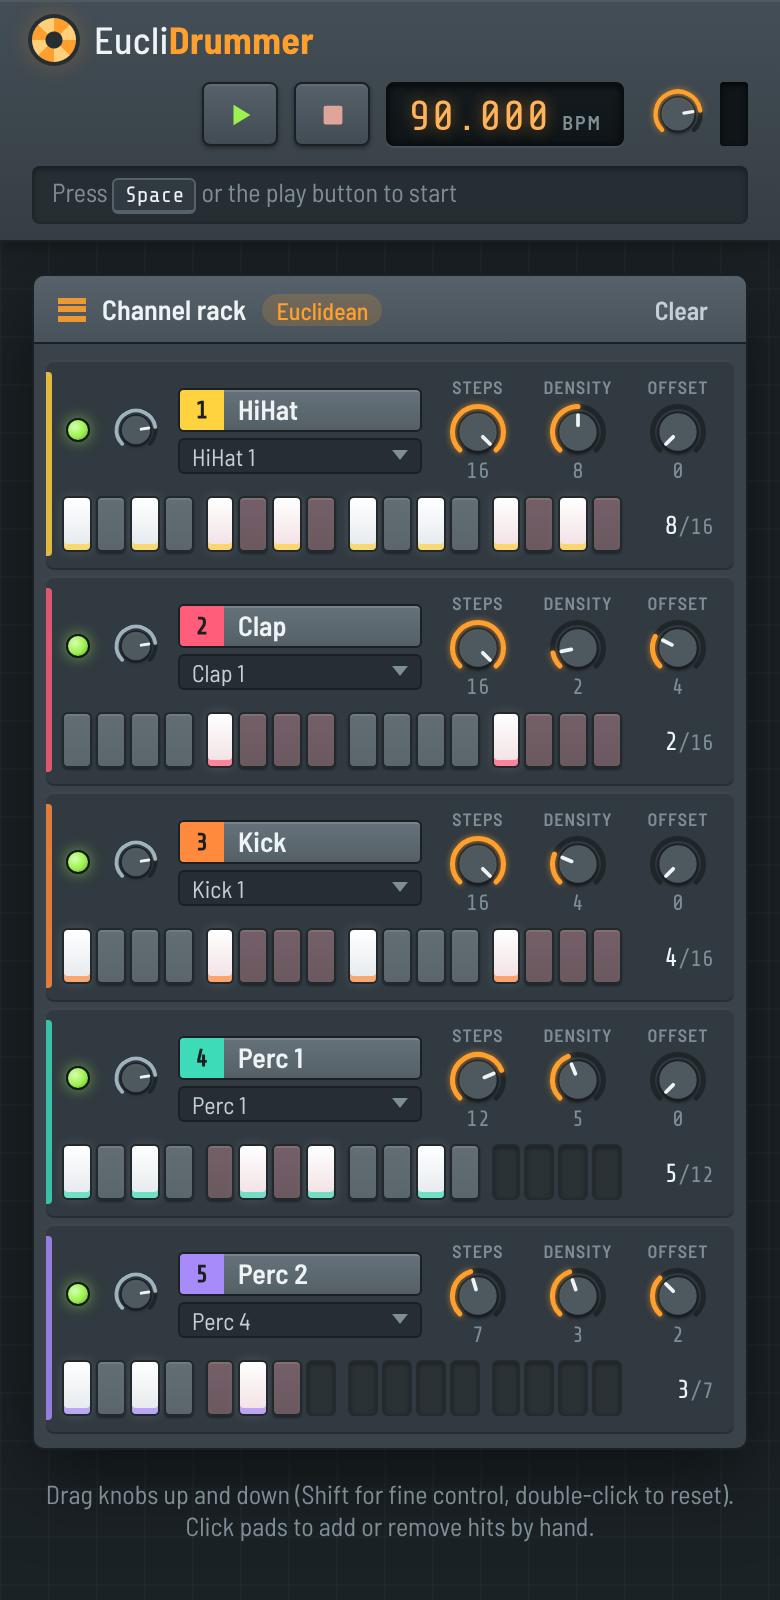
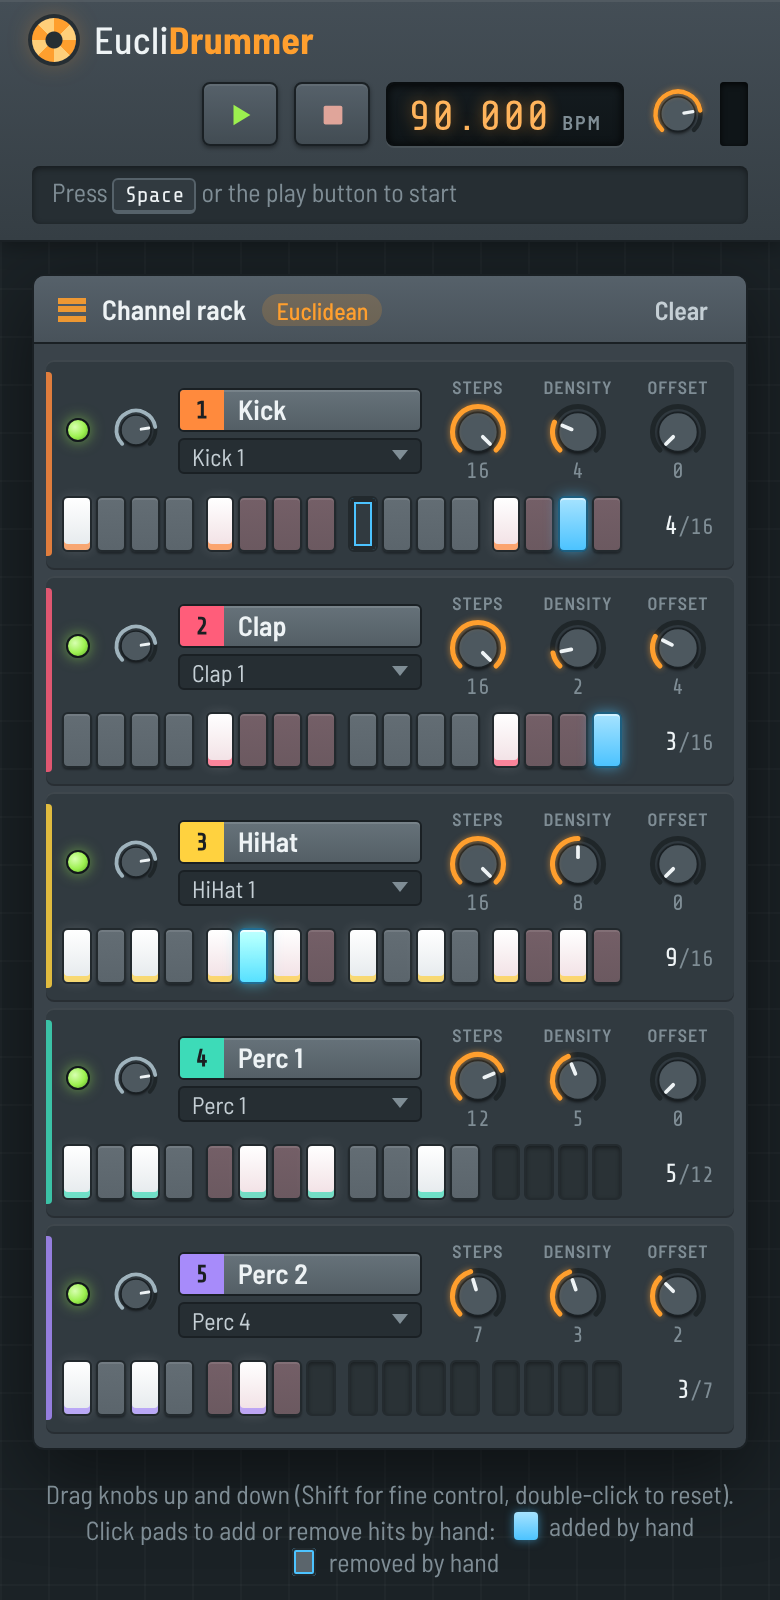
Colour hand-edited steps and reorder tracks
Pads toggled by hand now stand apart from the Euclidean pattern: an
added hit lights up blue instead of white, and a generated hit that was
removed gets a blue outline. A step counts as edited when it differs
from the pattern the track's knobs generate, so turning a knob clears
the markers along with the edits. A legend under the rack explains the
colours.

Tracks are now ordered Kick, Clap, HiHat, Perc 1, Perc 2.

Claude-Session: https://claude.ai/code/session_01Bp1XFt4pRRs2fHdF7PeK35

diff --git a/sketch.js b/sketch.js
@@ -16,16 +16,16 @@ const DEFAULT_VOLUME = 0.8;
 // a knob returns it to this value).
 const TRACKS = [
   {
-    phrase: 'hh', label: 'HiHat', files: ['hat', 'hh2', 'hh3'], options: ['HiHat 1', 'HiHat 2', 'HiHat 3'],
-    color: '#ffd23f', groove: { steps: 16, density: 8, offset: 0 }
+    phrase: 'bass', label: 'Kick', files: ['bass', 'bass2', 'bass3'], options: ['Kick 1', 'Kick 2', 'Kick 3'],
+    color: '#ff8a3d', groove: { steps: 16, density: 4, offset: 0 }
   },
   {
     phrase: 'clap', label: 'Clap', files: ['clap', 'clap2', 'clap3'], options: ['Clap 1', 'Clap 2', 'Clap 3'],
     color: '#ff5d7a', groove: { steps: 16, density: 2, offset: 4 }
   },
   {
-    phrase: 'bass', label: 'Kick', files: ['bass', 'bass2', 'bass3'], options: ['Kick 1', 'Kick 2', 'Kick 3'],
-    color: '#ff8a3d', groove: { steps: 16, density: 4, offset: 0 }
+    phrase: 'hh', label: 'HiHat', files: ['hat', 'hh2', 'hh3'], options: ['HiHat 1', 'HiHat 2', 'HiHat 3'],
+    color: '#ffd23f', groove: { steps: 16, density: 8, offset: 0 }
   },
   {
     phrase: 'p1', label: 'Perc 1', files: ['p1-1', 'p1-2', 'p1-3'], options: ['Perc 1', 'Perc 2', 'Perc 3'],
@@ -508,13 +508,19 @@ function toggleStep(track, step) {
 }
 
 function renderTrack(track) {
+  // Steps that differ from the generated Euclidean pattern were toggled by hand.
+  const generated = euclidPattern(track.steps, track.density, track.offset);
   track.pads.forEach((pad, i) => {
     const inRange = i < track.steps;
     const on = inRange && track.pattern[i] === 1;
+    const edited = inRange && track.pattern[i] !== generated[i];
     pad.disabled = !inRange;
     pad.classList.toggle('out', !inRange);
     pad.classList.toggle('on', on);
+    pad.classList.toggle('added', edited && on);
+    pad.classList.toggle('removed', edited && !on);
     pad.setAttribute('aria-pressed', String(on));
+    pad.setAttribute('aria-label', `${track.label} step ${i + 1}${edited ? ' (edited by hand)' : ''}`);
   });
   const hits = track.steps ? track.pattern.reduce((a, b) => a + b, 0) : 0;
   track.row.querySelector('.ratio b').textContent = hits;

diff --git a/style.css b/style.css
@@ -21,6 +21,8 @@
   --pad-alt: #6b5960;
   --pad-on: #e4e9ec;
   --pad-on-alt: #f1dfe3;
+  --manual: #4cc3ff;
+  --manual-glow: rgba(76, 195, 255, 0.55);
   --radius: 4px;
   --font: 'Barlow Semi Condensed', 'Arial Narrow', 'Segoe UI', system-ui, sans-serif;
   --mono: 'Share Tech Mono', ui-monospace, 'SFMono-Regular', Consolas, monospace;
@@ -573,6 +575,45 @@ kbd {
 .pad.on.now {
   background: var(--ch);
   box-shadow: 0 0 12px var(--ch);
+}
+
+/* Hits added by hand light up in their own colour; Euclidean hits removed by hand get an outline. */
+.pad.on.added,
+.pad.alt.on.added {
+  background: linear-gradient(#a6e3ff, var(--manual));
+  border-color: #1d5f80;
+  box-shadow: inset 0 1px 0 rgba(255, 255, 255, 0.5), 0 0 7px var(--manual-glow);
+}
+
+.pad.on.added.now {
+  background: #c9efff;
+  box-shadow: 0 0 14px var(--manual);
+}
+
+.pad.removed {
+  box-shadow: inset 0 0 0 2px #22292d, inset 0 0 0 3px var(--manual);
+  background-image: none;
+}
+
+.legend {
+  display: inline-flex;
+  align-items: center;
+  gap: 6px;
+  margin-left: 6px;
+  white-space: nowrap;
+}
+
+.legend-swatch {
+  width: 12px;
+  height: 14px;
+  border-radius: 2px;
+  background: linear-gradient(#a6e3ff, var(--manual));
+  box-shadow: 0 0 5px var(--manual-glow);
+}
+
+.legend-swatch.removed {
+  background: var(--pad);
+  box-shadow: inset 0 0 0 1px #22292d, inset 0 0 0 2px var(--manual);
 }
 
 .ratio {

diff --git a/index.html b/index.html
@@ -78,7 +78,9 @@
     </section>
 
     <p class="footnote">Drag knobs up and down (Shift for fine control, double-click to reset). Click pads to
-      add or remove hits by hand.</p>
+      add or remove hits by hand:
+      <span class="legend"><span class="legend-swatch"></span>added by hand</span>
+      <span class="legend"><span class="legend-swatch removed"></span>removed by hand</span></p>
   </main>
 
   <div class="loading" id="loading">Loading samples…</div>

diff --git a/README.md b/README.md
@@ -6,7 +6,7 @@ EucliDrummer is a browser drum machine built with [p5.js](https://p5js.org/) and
 
 ## Features
 
-- Five tracks: HiHat, Clap, Kick, Perc 1 and Perc 2.
+- Five tracks: Kick, Clap, HiHat, Perc 1 and Perc 2.
 - A dark, DAW-style interface inspired by FL Studio's channel rack, with rotary knobs, lit step pads, a running playhead and a tempo display.
 - Per-track Euclidean controls:
   - **Steps** sets the pattern length (0 to 16 steps).
@@ -38,7 +38,7 @@ Then open <http://localhost:8000> in your browser. In VS Code, the Live Server e
 1. Press **Space** or the green play button to start the loop. Space again stops it; the play button pauses. Browsers only allow audio after you interact with the page, and either of these counts.
 2. Turn a track's **Density** knob to add or remove hits. Each track starts with a groove loaded, and **Clear** in the rack's title bar empties every pattern.
 3. Turn **Steps** to make a track loop over fewer steps, and **Offset** to shift where its hits land. Tracks with different step counts drift against each other, which is where the polyrhythms come from.
-4. Click pads to add or remove individual hits on top of the generated pattern.
+4. Click pads to add or remove individual hits on top of the generated pattern. Hits you add by hand light up blue instead of white, and generated hits you remove get a blue outline, so you can always tell your edits apart from the Euclidean pattern.
 5. Pick a different sample from a track's dropdown, use the green light to mute it, and the small knob beside it for its volume.
 6. Set the speed by dragging the **BPM** display up or down, scrolling over it, or focusing it and using the arrow keys. Double-click it to go back to 90.
 
